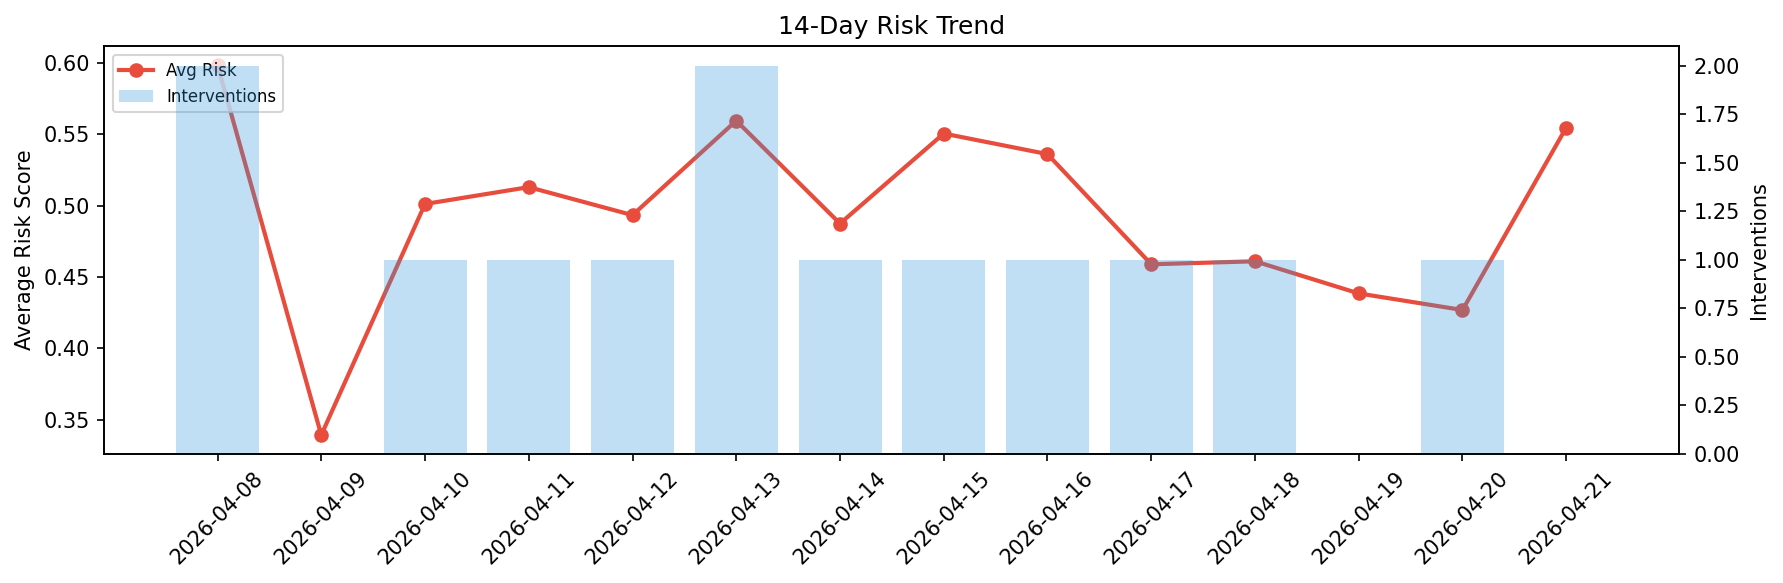
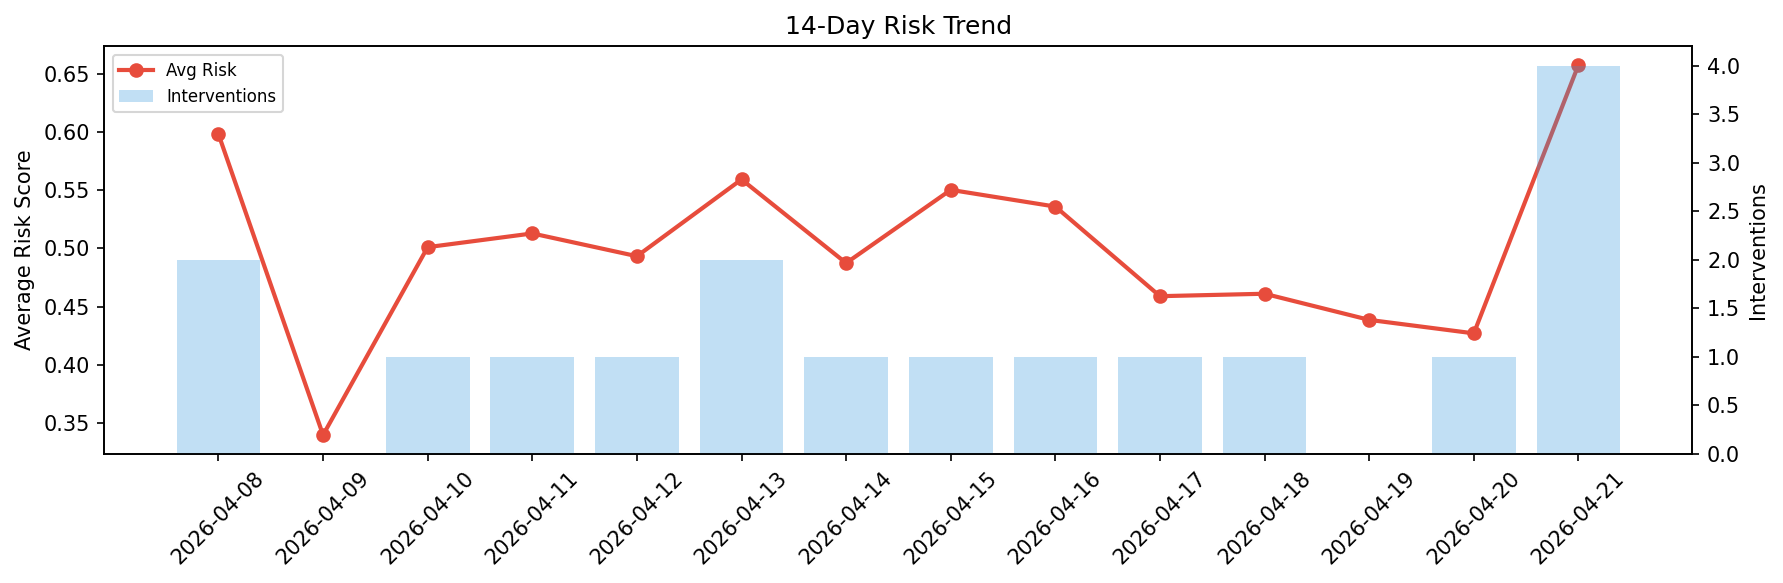
agent-improvement: daily cycle 2026-04-21T15:43

diff --git a/logs/2026-04-21.md b/logs/2026-04-21.md
@@ -1,6 +1,6 @@
 # Agent Improvement Report — 2026-04-21
 
-**Cycle ID:** `b888aaca` | **Avg Risk:** 0.5546 | **Interventions:** 0/4
+**Cycle ID:** `bc26eb1c` | **Avg Risk:** 0.6579 | **Interventions:** 4/4
 
 ![Dashboard](2026-04-21_dashboard.png)
 
@@ -10,18 +10,18 @@
 
 | Domain | Risk Score | Decision | Alerts |
 |--------|-----------|----------|--------|
-| code_review | 0.5274 | monitor | duplication |
-| incident_response | 0.5753 | monitor | blast_radius |
-| data_pipeline | 0.5987 | monitor | schema_drift |
-| deployment | 0.5169 | monitor | rollback_rate |
+| code_review | 0.6774 | intervene | complexity |
+| incident_response | 0.6629 | intervene | severity |
+| data_pipeline | 0.6706 | intervene | schema_drift |
+| deployment | 0.6207 | intervene | canary_error |
 
 ## Delta vs Yesterday
 
 | Domain | Today | Yesterday | Change |
 |--------|-------|-----------|--------|
-| code_review | 0.5274 | 0.6017 | 📉 -12.3% |
-| incident_response | 0.5753 | 0.4793 | 📈 20.0% |
-| data_pipeline | 0.5987 | 0.3303 | 📈 81.3% |
-| deployment | 0.5169 | 0.2965 | 📈 74.3% |
+| code_review | 0.6774 | 0.6017 | 📈 12.6% |
+| incident_response | 0.6629 | 0.4793 | 📈 38.3% |
+| data_pipeline | 0.6706 | 0.3303 | 📈 103.0% |
+| deployment | 0.6207 | 0.2965 | 📈 109.3% |
 
 **Refinement:** `{'adjustment': 'maintain', 'trend': 'improving', 'window': 4}`
